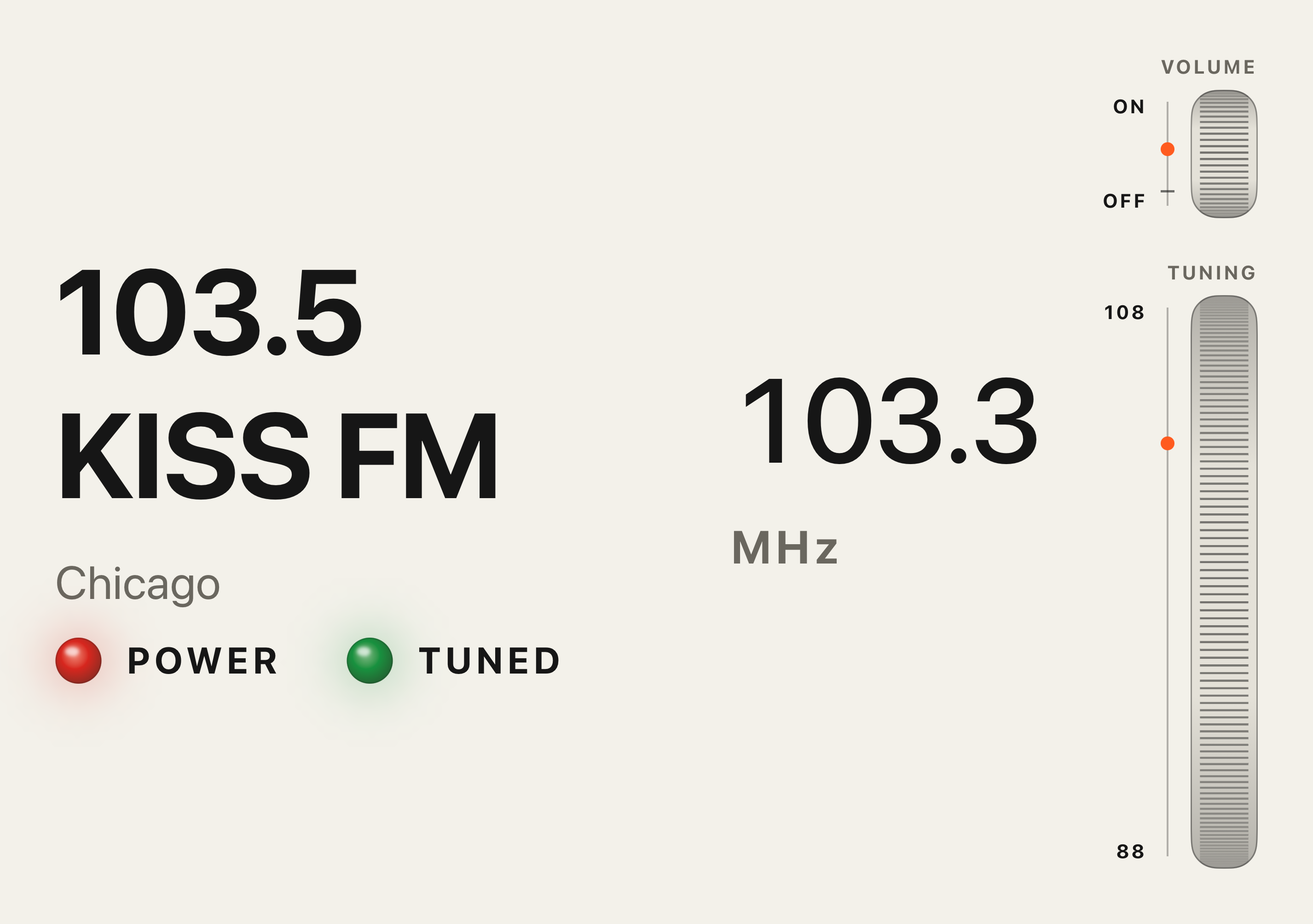
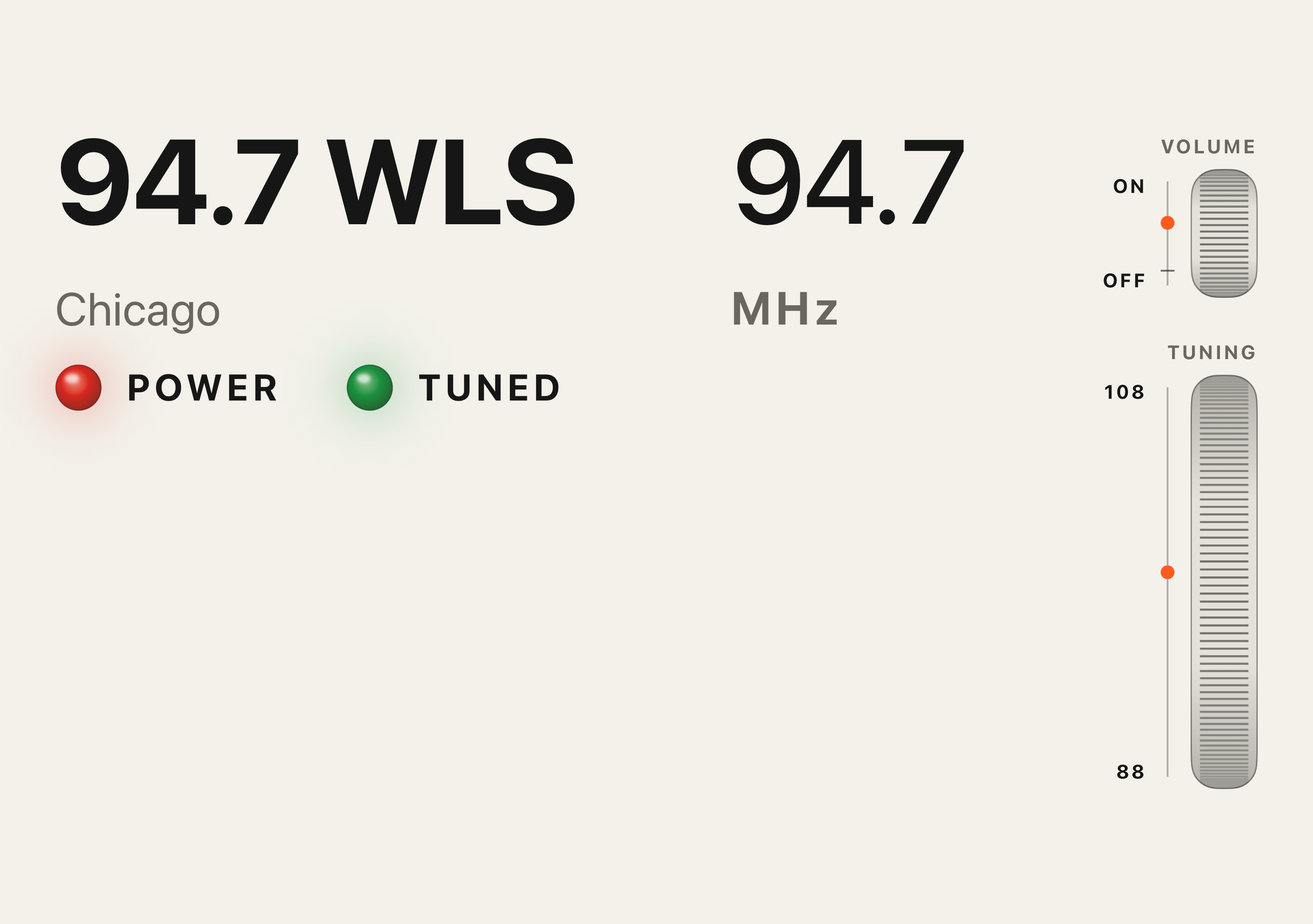
fix: standby shows the locked frequency, book panels share a top line, wheels clear the outer camera, slow release settles onto a shown station

diff --git a/App/Views/StandbyView.swift b/App/Views/StandbyView.swift
@@ -25,31 +25,40 @@ struct StandbyView: View {
             let margin = metrics.margin
             // The wheels' em, as flex works it out from the inner screen's width: the same
             // wheels there, a little smaller on the outer screen.
-            let wheels = SideWheels(model: model, em: Face.em(forWidth: metrics.short))
+            let wheelsEm = Face.em(forWidth: metrics.short)
             Group {
                 if twoPanels {
                     // The panels split the whole screen, so the fold stays on the centre line;
-                    // each keeps to the safe area on its outer edge and clear of the fold.
+                    // each keeps to the safe area on its outer edge and clear of the fold. The
+                    // wheels are centred top to bottom, and the name's and the frequency's cap
+                    // tops sit on the same line as VOLUME's, so one top line runs across the fold.
+                    let wheelsHeight = SideWheels.height(em: wheelsEm, tuning: Self.bookTuningHeight)
+                    let top = max(insets.top + margin, (size.height - wheelsHeight) / 2)
+                    let capLine = top + SideWheels.captionCapInset(em: wheelsEm)
                     HStack(spacing: 0) {
                         VStack(alignment: .leading, spacing: metrics.gap) {
                             name(metrics)
                             subtitleAndLamp(metrics)
                         }
                         .animation(.easeOut(duration: 0.3), value: model.radio.powerOn)
-                        .padding(EdgeInsets(top: insets.top + margin, leading: insets.leading + margin,
+                        .padding(.top, capLine - Self.capInset(nameFont(size: metrics.name)))
+                        .padding(EdgeInsets(top: 0, leading: insets.leading + margin,
                                             bottom: insets.bottom + margin, trailing: Face.foldClearance + margin))
-                        .frame(width: size.width / 2, height: size.height, alignment: .leading)
-                        HStack(spacing: margin) {
+                        .frame(width: size.width / 2, height: size.height, alignment: .topLeading)
+                        HStack(alignment: .top, spacing: margin) {
                             VStack(alignment: .leading, spacing: metrics.gap) {
                                 frequency(metrics)
                                 unit(metrics)
                             }
                             .animation(.easeOut(duration: 0.3), value: model.radio.powerOn)
-                            wheels
+                            .padding(.top, capLine - top
+                                     - Self.capInset(frequencyFont(size: frequencySize(metrics))))
+                            SideWheels(model: model, em: wheelsEm, tuningMaxHeight: Self.bookTuningHeight)
+                                .frame(height: min(wheelsHeight, size.height - top - insets.bottom - margin))
                         }
-                        .padding(EdgeInsets(top: insets.top + margin, leading: Face.foldClearance + margin,
+                        .padding(EdgeInsets(top: top, leading: Face.foldClearance + margin,
                                             bottom: insets.bottom + margin, trailing: insets.trailing + margin))
-                        .frame(width: size.width / 2, height: size.height)
+                        .frame(width: size.width / 2, height: size.height, alignment: .top)
                     }
                 } else {
                     HStack(spacing: margin) {
@@ -61,7 +70,7 @@ struct StandbyView: View {
                             unit(metrics)
                         }
                         .animation(.easeOut(duration: 0.3), value: model.radio.powerOn)
-                        wheels
+                        SideWheels(model: model, em: wheelsEm)
                     }
                     .padding(singlePanelPadding(size: size, insets: insets, margin: margin))
                     .frame(width: size.width, height: size.height)
@@ -71,19 +80,33 @@ struct StandbyView: View {
         .foregroundStyle(Face.ink)
     }
 
+    /// The book face's tuning wheel: a little taller than flex's, not the panel's full height.
+    /// The gearing is per point, so this changes only how much of the band one height covers.
+    private static let bookTuningHeight: CGFloat = 300
+
     /// The outer screen's camera sits in one corner, reaching about 66 pt in from both edges, and
     /// the safe area does not report it. Which corner depends on the way up, which is unreliable,
     /// so the single panel keeps both ends of its long side this far in.
     private static let cameraClearance: CGFloat = 80
+    /// Where the wheels meet an end of the long side they keep further in, so the thumb rolling
+    /// them (wider than the wheel) stays clear of the camera: about 38 pt between lens and wheel.
+    private static let wheelCameraClearance: CGFloat = 104
 
+    /// Landscape: the text keeps `cameraClearance` on the left, the wheels `wheelCameraClearance`
+    /// on the right. Upright: the wheels run along the long side, so both its ends keep
+    /// `wheelCameraClearance`, and the text lines up with them.
     private func singlePanelPadding(size: CGSize, insets: EdgeInsets, margin: CGFloat) -> EdgeInsets {
-        let end = Self.cameraClearance
-        return size.width > size.height
-            ? EdgeInsets(top: insets.top + margin, leading: max(insets.leading + margin, end),
-                         bottom: insets.bottom + margin, trailing: max(insets.trailing + margin, end))
-            : EdgeInsets(top: max(insets.top + margin, end), leading: insets.leading + margin,
-                         bottom: max(insets.bottom + margin, end), trailing: insets.trailing + margin)
+        size.width > size.height
+            ? EdgeInsets(top: insets.top + margin, leading: max(insets.leading + margin, Self.cameraClearance),
+                         bottom: insets.bottom + margin,
+                         trailing: max(insets.trailing + margin, Self.wheelCameraClearance))
+            : EdgeInsets(top: max(insets.top + margin, Self.wheelCameraClearance), leading: insets.leading + margin,
+                         bottom: max(insets.bottom + margin, Self.wheelCameraClearance),
+                         trailing: insets.trailing + margin)
     }
+
+    /// From the top of a one-line text in `font` to its cap top.
+    private static func capInset(_ font: UIFont) -> CGFloat { font.ascender - font.capHeight }
 
     /// Sizes from the screen's short side `s`.
     private struct Metrics {
@@ -121,13 +144,12 @@ struct StandbyView: View {
         }
     }
 
-    /// The frequency under the needle, as on the flex dial (the wheels tune here too). Its size
-    /// is set from the widest reading, so it stays put while tuning across 100 MHz, and fits
-    /// beside the wheels.
+    /// The locked station's own frequency, else the needle's (flex's dial follows the needle). Its
+    /// size is set from the widest reading, so it stays put across 100 MHz and fits beside the
+    /// wheels.
     private func frequency(_ metrics: Metrics) -> some View {
-        let fitted = frequencySlot > 0 ? frequencySlot / Self.frequencyWidthPerPoint : metrics.frequency
-        let size = min(metrics.frequency, fitted)
-        return Text(String(format: "%.1f", model.radio.tuning.frequency))
+        let size = frequencySize(metrics)
+        return Text(String(format: "%.1f", model.radio.tuning.locked?.frequency ?? model.radio.tuning.frequency))
             .font(.system(size: size, weight: .medium))
             .monospacedDigit()
             .tracking(-0.02 * size)
@@ -137,6 +159,16 @@ struct StandbyView: View {
             .opacity(model.radio.powerOn ? 1 : 0.35)
             .frame(maxWidth: .infinity, alignment: .leading)
             .onGeometryChange(for: CGFloat.self) { $0.size.width } action: { frequencySlot = $0 }
+    }
+
+    private func frequencySize(_ metrics: Metrics) -> CGFloat {
+        let fitted = frequencySlot > 0 ? frequencySlot / Self.frequencyWidthPerPoint : metrics.frequency
+        return min(metrics.frequency, fitted)
+    }
+
+    private func nameFont(size: CGFloat) -> UIFont { .systemFont(ofSize: size, weight: .bold) }
+    private func frequencyFont(size: CGFloat) -> UIFont {
+        .monospacedDigitSystemFont(ofSize: size, weight: .medium)
     }
 
     /// The width of the widest reading, "000.0", per point of font size.

diff --git a/App/Views/SideWheels.swift b/App/Views/SideWheels.swift
@@ -1,4 +1,5 @@
 import SwiftUI
+import UIKit
 import RadioCore
 import os
 
@@ -12,6 +13,8 @@ import os
 struct SideWheels: View {
     let model: RadioModel
     let em: CGFloat
+    /// The tallest the tuning wheel may grow; by default it takes all the height left.
+    var tuningMaxHeight: CGFloat = .infinity
 
     /// How much of the band (0...1) one point of roll on the tuning wheel covers, on every face.
     /// The flex face's tuning wheel on the inner screen (233 pt, measured from the `WHEELS` log
@@ -33,7 +36,7 @@ struct SideWheels: View {
             caption("TUNING", size: size)
                 .padding(.top, wheelGap(size: size) - 2 * captionGap - captionHeight(size))
             tuning(size: size)
-                .frame(minHeight: Self.tuningMinHeight, maxHeight: .infinity)
+                .frame(minHeight: Self.tuningMinHeight, maxHeight: max(Self.tuningMinHeight, tuningMaxHeight))
         }
         .fixedSize(horizontal: true, vertical: false)
         .foregroundStyle(Face.ink)
@@ -43,14 +46,34 @@ struct SideWheels: View {
 
     private var wheelWidth: CGFloat { max(46, 1.25 * em) }
     /// One wheel height is the volume's whole travel, 0 to 1.
-    private var volumeHeight: CGFloat { max(92, 2.4 * em) }
+    private var volumeHeight: CGFloat { Self.volumeHeight(em: em) }
     /// Between a wheel's name and the wheel.
-    private var captionGap: CGFloat { 0.2 * em }
-    private func captionHeight(_ size: CGFloat) -> CGFloat { ceil(1.2 * size) }
+    private var captionGap: CGFloat { Self.captionGap(em: em) }
+    private func captionHeight(_ size: CGFloat) -> CGFloat { Self.captionHeight(size) }
+    private func wheelGap(size: CGFloat) -> CGFloat { Self.wheelGap(em: em, size: size) }
+
+    private static func volumeHeight(em: CGFloat) -> CGFloat { max(92, 2.4 * em) }
+    private static func captionGap(em: CGFloat) -> CGFloat { 0.2 * em }
+    private static func captionHeight(_ size: CGFloat) -> CGFloat { ceil(1.2 * size) }
     /// From the bottom of the volume wheel to the top of the tuning wheel: at least 44 pt, so a
     /// thumb on one never lands on the other. The tuning wheel's name sits in this gap.
-    private func wheelGap(size: CGFloat) -> CGFloat {
-        max(48, 1.25 * em, 2 * captionGap + captionHeight(size) + 0.6 * em)
+    private static func wheelGap(em: CGFloat, size: CGFloat) -> CGFloat {
+        max(48, 1.25 * em, 2 * captionGap(em: em) + captionHeight(size) + 0.6 * em)
+    }
+
+    /// The whole assembly's height with a tuning wheel `tuning` tall.
+    static func height(em: CGFloat, tuning: CGFloat) -> CGFloat {
+        let size = Face.printed(em: em)
+        return captionHeight(size) + captionGap(em: em) + volumeHeight(em: em)
+            + wheelGap(em: em, size: size) + tuning
+    }
+
+    /// From the top of the assembly to the cap top of its first word, VOLUME, so a face can line
+    /// other words up with it.
+    static func captionCapInset(em: CGFloat) -> CGFloat {
+        let size = Face.printed(em: em)
+        let font = UIFont.systemFont(ofSize: size, weight: .bold)
+        return (captionHeight(size) - font.lineHeight) / 2 + font.ascender - font.capHeight
     }
 
     // MARK: - Volume
@@ -100,7 +123,7 @@ struct SideWheels: View {
                           if target != model.position {
                               move(to: target)
                           } else {
-                              model.settle(animated: !reduceMotion)  // a slow release eases onto the mark
+                              model.settleAfterRelease(animated: !reduceMotion)  // a slow release eases onto the mark
                           }
                       },
                       onTap: { upperHalf in step(up: upperHalf) },
@@ -109,7 +132,7 @@ struct SideWheels: View {
                 .onGeometryChange(for: CGFloat.self) { $0.size.height.rounded() } action: { height in
                     let line = String(format: "WHEELS tuning %.0f pt, %.3f of the band", height,
                                       Double(height) * Self.tuningBandPerPoint)
-                    log.notice("\(line, privacy: .public)")
+                    log.debug("\(line, privacy: .public)")
                 }
                 .accessibilityLabel("Tuning")
                 .accessibilityValue(tuningValue)

diff --git a/Packages/RadioCore/Tests/RadioCoreTests/RadioTests.swift b/Packages/RadioCore/Tests/RadioCoreTests/RadioTests.swift
@@ -345,3 +345,59 @@ private let pair = StationFile(generated: "test", cities: [
     #expect(Radio(file: .empty).stepTarget(up: true) == nil)
     #expect(Radio(file: .empty).stepTarget(up: false) == nil)
 }
+
+// MARK: - Slow release
+
+/// The dial position `units` dial units above KSEA's mark: outside the 1.5 half zone and inside
+/// the 0.75 fade means a candidate that is not locked.
+private func aboveKSEA(_ radio: Radio, units: Double) -> Double {
+    (radio.scale.marks[0].angle + units - 70) / 80
+}
+
+@Test func releaseTargetIsTheLockedMark() {
+    var radio = Radio(file: file)
+    radio.tune(toPosition: 0.5175)                            // inside KSEA's zone, off the mark
+    #expect(radio.tuning.locked?.callSign == "KSEA")
+    #expect(radio.releaseTarget == radio.scale.marks[0].position)
+    radio.togglePower()
+    #expect(radio.releaseTarget == radio.scale.marks[0].position)
+}
+
+@Test func releaseTargetEasesOntoAShownCandidate() {
+    var radio = Radio(file: file)
+    radio.togglePower()
+    radio.tune(toPosition: 0.625)                             // static, so nothing is held
+    radio.tune(toPosition: aboveKSEA(radio, units: 1.9))      // in the fade, not locked
+    #expect(radio.tuning.locked == nil)
+    #expect(radio.tuning.candidate?.callSign == "KSEA")
+    #expect(radio.display(playback: .playing).title == "KSEA Name")
+    #expect(radio.releaseTarget == radio.scale.marks[0].position)
+    #expect(radio.settleTarget == nil)                        // steps and launch still need a lock
+}
+
+@Test func releaseTargetBeyondTheFadeIsNil() {
+    var radio = Radio(file: file)
+    radio.togglePower()
+    radio.tune(toPosition: aboveKSEA(radio, units: 2.5))
+    #expect(radio.tuning.candidate == nil)
+    #expect(radio.releaseTarget == nil)
+    #expect(Radio(file: .empty).releaseTarget == nil)
+}
+
+@Test func releaseTargetForADeadCandidateIsNil() {
+    var radio = Radio(file: file)
+    radio.togglePower()
+    radio.markDead("KSEA")
+    radio.tune(toPosition: 0.625)
+    radio.tune(toPosition: aboveKSEA(radio, units: 1.9))
+    #expect(radio.tuning.candidate?.callSign == "KSEA")
+    #expect(radio.releaseTarget == nil)
+}
+
+@Test func releaseTargetOffIgnoresTheCandidate() {
+    var radio = Radio(file: file)                             // off: no name shows
+    radio.tune(toPosition: 0.625)
+    radio.tune(toPosition: aboveKSEA(radio, units: 1.9))
+    #expect(radio.tuning.candidate?.callSign == "KSEA")
+    #expect(radio.releaseTarget == nil)
+}

diff --git a/App/RadioModel.swift b/App/RadioModel.swift
@@ -119,11 +119,16 @@ import UIKit
         updatePose()
     }
 
-    /// After a slow release or a band change: eases the needle onto the locked station's mark
-    /// over 0.2 s (at once when `animated` is false), without ticking. With nothing locked the
-    /// needle stays where it is.
-    func settle(animated: Bool) {
-        guard let target = radio.settleTarget, target != radio.position else { return }
+    /// After a band change: eases the needle onto the locked station's mark over 0.2 s (at once
+    /// when `animated` is false), without ticking. With nothing locked the needle stays where it is.
+    func settle(animated: Bool) { ease(to: radio.settleTarget, animated: animated) }
+
+    /// After a slow release on the tuning wheel: the same quiet ease, onto the locked station's
+    /// mark or onto the station whose name shows in its fade zone (`Radio.releaseTarget`).
+    func settleAfterRelease(animated: Bool) { ease(to: radio.releaseTarget, animated: animated) }
+
+    private func ease(to target: Double?, animated: Bool) {
+        guard let target, target != radio.position else { return }
         if animated {
             glide(toPosition: target, duration: 0.2, quiet: true)
         } else {

diff --git a/Packages/RadioCore/Sources/RadioCore/Radio.swift b/Packages/RadioCore/Sources/RadioCore/Radio.swift
@@ -106,6 +106,16 @@ public struct Radio: Sendable {
         return scale.marks.first { $0.station.callSign == locked.callSign }?.position
     }
 
+    /// Where a slow release on the tuning wheel eases the needle to: the locked station's mark;
+    /// else, while the radio is on and a live station's name shows in its fade zone (the
+    /// candidate, not yet locked), that station's mark; else nil, and the needle stays put.
+    /// Taps, VoiceOver steps and launch still count from `settleTarget` (a lock only).
+    public var releaseTarget: Double? {
+        if let target = settleTarget { return target }
+        guard powerOn, let candidate = tuning.candidate, !dead.contains(candidate.callSign) else { return nil }
+        return scale.marks.first { $0.station.callSign == candidate.callSign }?.position
+    }
+
     /// Tunes straight onto the locked station's mark, so the needle rests there and the next touch
     /// has an even hold on both sides. Does nothing when no station is locked. Used at launch; the
     /// app eases onto `settleTarget` itself after a release or a band change.

diff --git a/README.md b/README.md
@@ -57,7 +57,7 @@ The needle follows the tuning wheel on every move, near a station too, and the f
 The lower half is the front of a pocket radio: a speaker grille, a band switch under it, and two ridged wheels at the right edge. Each wheel has its name printed over it and a short printed scale beside it with a dot that shows where it is turned. A wheel turns only once the finger has moved 6 pt; a touch that lifts before that is a tap.
 
 1. Volume (the small wheel, top). Roll it up past the click and the radio comes on; keep rolling for louder; roll it down past the click and it goes off. Below 0.15 of its travel it is off. A tap on it switches the radio on (at the last volume used) or off. One wheel height of rolling covers the whole range.
-2. Tuning (the tall wheel, bottom). Roll it up to go up the band, down to go down. Every 100 pt of rolling moves about a tenth of the band (the whole band is 932 pt of rolling), on every face; here that is a quarter of the band per wheel height. Near a station it settles on it, the name and its city of licence appear, and the station plays. Between stations the screen says "Static". A slow release on a station eases the needle onto its mark; off a station it stays where you let go. A quick flick carries on and settles on the nearest station. A tap on the upper half of the wheel goes to the next station up, on the lower half to the next one down, counting from the locked station when there is one. On this wheel a tap must lift within 4 pt of where it began; a small nudge between that and 6 pt does nothing.
+2. Tuning (the tall wheel, bottom). Roll it up to go up the band, down to go down. Every 100 pt of rolling moves about a tenth of the band (the whole band is 932 pt of rolling), on every face; here that is a quarter of the band per wheel height. Near a station it settles on it, the name and its city of licence appear, and the station plays. Between stations the screen says "Static". A slow release on a station eases the needle onto its mark, and so does a slow release just short of a station where its name already shows (with the radio on, and not a station marked "No signal"); anywhere else it stays where you let go. A quick flick carries on and settles on the nearest station. A tap on the upper half of the wheel goes to the next station up, on the lower half to the next one down, counting from the locked station when there is one. On this wheel a tap must lift within 4 pt of where it began; a small nudge between that and 6 pt does nothing.
 3. Band. Tap one of the four positions (SEA, NYC, CHI, LA) to slide the switch there. The dial redraws with that city's stations and the old city goes quiet at once. The needle stays where it was, unless one of the new city's stations is under it: then it eases onto that station's mark.
 
 Each control ticks or clicks like a mechanical one, with a small sound and a matching tap you can feel, whether the radio is on or off:
@@ -74,9 +74,9 @@ With VoiceOver: "Volume" is adjustable in steps of a tenth (from off, one step u
 
 ### Book, tent and shut: standby
 
-The same face on all three. It is made to be read from across a room, with the station name and the frequency as the two biggest things on it. Under the name are the same POWER and TUNED lamps as in flex; switched off, the name and the line under it are empty. The frequency is the one under the needle, as on the flex dial, and keeps one size while you tune (it is sized for five figures, so it does not jump at 100 MHz).
+The same face on all three. It is made to be read from across a room, with the station name and the frequency as the two biggest things on it. Under the name are the same POWER and TUNED lamps as in flex; switched off, the name and the line under it are empty. The frequency is the locked station's own; between stations it is the one under the needle. It keeps one size while you tune (it is sized for five figures, so it does not jump at 100 MHz).
 
-At the right edge are the same two wheels as in flex, with the same names, printed scales, ticks, clicks and VoiceOver actions: volume above, tuning below. Volume is also power: roll it up past the click or tap it to switch on, roll it down past the click or tap it again to switch off. Tuning works as in flex, including a tap on its upper or lower half to step a station, and a thumb movement tunes the same amount as in flex; on a taller wheel one wheel height just covers more of the band. In book the wheels sit at the right edge of the right panel, with the frequency to their left. On the outer screen they stay 80 pt in from both short edges, like everything else there, so nothing sits under the camera in any corner. You cannot change city here. Put the phone in flex to do that.
+At the right edge are the same two wheels as in flex, with the same names, printed scales, ticks, clicks and VoiceOver actions: volume above, tuning below. Volume is also power: roll it up past the click or tap it to switch on, roll it down past the click or tap it again to switch off. Tuning works as in flex, including a tap on its upper or lower half to step a station, and a thumb movement tunes the same amount as in flex; on a taller wheel one wheel height just covers more of the band. In book the wheels sit at the right edge of the right panel, with the frequency to their left; the station name, the frequency and the word VOLUME start on one line across the fold, and the tuning wheel is 300 pt tall. The outer screen's camera sits in one corner, and which corner depends on the way up, so there the wheels keep a thumb's width clear of it: they stay about 104 pt in from each end of the long side, where the text keeps 80 pt. You cannot change city here. Put the phone in flex to do that.
 
 Closing the phone keeps the radio playing and shows the standby face on the outer screen, whichever way up it is. If the hinge is nearly shut but the inner screen is still lit, the standby face shows on the half of the inner screen above the fold (or the panel left of it on its side).
 
@@ -122,6 +122,7 @@ xcrun simctl spawn <id> log show --last 3m --style compact --predicate 'subsyste
 - `LOCK <call> <position>` or `STATIC <position>` only when the locked station changes.
 - `CONNECT`, `PLAYING`, `RETRY`, `FAILED` and `STOP` from the player.
 - `FEEL click on|off|band|lock <call>` and `FEEL stop tuning|volume` for each click and stop; `FEEL tick tuning|volume` for each tick, at the info level (add `--info` to see them).
+- `WHEELS tuning <height> pt, <fraction> of the band` when the tuning wheel's height changes, at the debug level (add `--debug` to see it).
 
 ## The stations
 
@@ -148,11 +149,11 @@ At the end of `build`, the hosts of the plain-`http://` streams are compared wit
 ## Tests
 
 ```
-swift test --package-path Packages/RadioCore          # 110 tests
+swift test --package-path Packages/RadioCore          # 115 tests
 python3 -m unittest tools/test_build_stations.py      # 19 tests
 ```
 
-On 2026-11-22, on commit `8987edd`, the Swift suite passed 74 of 74 and the Python suite 19 of 19. After the review fixes the same day, the Swift suite passed 81 of 81 and the Python suite 19 of 19. With the pocket radio face, the Swift suite passed 85 of 85 and the Python suite 19 of 19. With the smooth needle, ticks and lamps, the Swift suite passed 95 of 95 and the Python suite 19 of 19; after the review fixes that followed, 110 of 110 and 19 of 19. With the side wheels on the standby faces, 110 of 110 and 19 of 19 (no new tests: the change is in the app's views, and the gearing constant carries no rule for RadioCore). One of the Python tests checks that the plain-http hosts in `Stations.json` and the ones `App/Info.plist` allows are the same set.
+On 2026-11-22, on commit `8987edd`, the Swift suite passed 74 of 74 and the Python suite 19 of 19. After the review fixes the same day, the Swift suite passed 81 of 81 and the Python suite 19 of 19. With the pocket radio face, the Swift suite passed 85 of 85 and the Python suite 19 of 19. With the smooth needle, ticks and lamps, the Swift suite passed 95 of 95 and the Python suite 19 of 19; after the review fixes that followed, 110 of 110 and 19 of 19. With the side wheels on the standby faces, 110 of 110 and 19 of 19 (no new tests: the change is in the app's views, and the gearing constant carries no rule for RadioCore); after the review fixes, with five tests for where a slow release eases to, 115 of 115 and 19 of 19. One of the Python tests checks that the plain-http hosts in `Stations.json` and the ones `App/Info.plist` allows are the same set.
 
 ## Side wheels on the standby faces (2026-11-22)
 
@@ -168,6 +169,16 @@ Checked on the iPhone Duo simulator (iOS 27.1), muted. Every touch was scripted.
 - **Tent** (`46-tent-wheels.png`, 678x466): after switching on in shut and bending to 60 degrees, the log had `POSE tent`, `POSE flex` and `POSE tent` within 1.4 s (the known flash) and no `STOP`. This time the camera dot was bottom right, about 15 pt clear of the tuning wheel. The first roll down ended between stations (`STATIC 0.692`), and 6 s later the player logged `STOP`, which is what it does after a few seconds on static, not the pose. A longer roll logged `LOCK WFMT 0.649`, `CONNECT WFMT` and `PLAYING WFMT`. Three taps on the lower half stepped down through WCHI-FM, WLS-FM and WCPY. A tap on the volume wheel logged `FEEL click off` and `STOP`.
 - **The other outer size** (`48-tent-wheels-upright.png`, 466x678): it came up on the third turn on the outer screen. The camera dot was top right; the VOLUME name starts 82 pt from the top, below it. A tap on the tuning wheel's upper half logged `LOCK WFMT 0.621` and a tap on the volume wheel `STOP`.
 - **Same gearing**: from WCPY (92.7, needle on the mark), the same scripted 100 pt roll up, held, read 95.3 during the hold in flex and in tent, and logged the same lines in both (`STATIC 0.501`, `LOCK WLS-FM 0.517`, `LOCK WCHI-FM 0.565`). The dial is not even in MHz, so the same roll elsewhere on the band moves the readout by a different number of MHz, the same on every face.
+
+### Review fixes to that pass (2026-11-22)
+
+A review found that the standby readout had been changed to follow the needle, that the book face's two panels no longer lined up, that on the 678x466 outer screen the camera sat about 15 pt beside a wheel end where a rolling thumb would cover it, and that a slow release just short of a station left the needle beside it. Fixed and checked on the iPhone Duo simulator (iOS 27.1), muted:
+
+- **Readout**: the standby face again shows the locked station's own frequency (the flex dial still follows the needle). In book, at rest on WLS-FM, it read 94.7 (`45-book-wheels.png`).
+- **Book**: the name's, the frequency's and VOLUME's cap tops now share one line, measured at 100.0, 100.3 and 101.0 pt in `45-book-wheels.png`; the wheels are centred top to bottom (tuning wheel 300 pt, foot at about 568 pt) and the lamps follow the name.
+- **Outer screen**: in shut (678x466, camera bottom right) the tuning wheel's rim ended at 573.7 pt and the dot began at 612 pt, 38 pt apart (`47-closed-wheels.png`). In tent the camera came up top left, beside the name, 14 pt clear as before (`46-tent-wheels.png`); a roll there logged `LOCK WCHI-FM 0.567`, `CONNECT WCHI-FM`, `PLAYING WCHI-FM` and no `STOP`. Upright (466x678, `48-tent-wheels-upright.png`) the dot ended at 66 pt and the volume wheel began at 125 pt, 59 pt below it; the tuning wheel ended 104 pt from the bottom. A tap on the volume wheel there logged `FEEL click off`, `STOP`.
+- **Slow release short of a station**: in flex, from WCPY's mark a scripted 37 pt roll up, held 4 s, then lifted. During the hold the log had `STATIC 0.495` and `CONNECT WLS-FM` and no `LOCK`; a capture then showed "94.7 WLS", "Chicago", 93.9 and the needle left of the mark. After the lift: `FEEL click lock WLS-FM` and `LOCK WLS-FM 0.511`, and the needle rested on the mark at 94.7.
+- **Flex**: a new capture of the same WCPY face was pixel for pixel the same as `40-pocket-flex.png` from the first pass, so that file was kept.
 
 ## Wheel touch fix (2026-11-22)
 
@@ -307,7 +318,7 @@ If a rebuild of the station list adds a station on a new plain-`http://` host, a
 ## What has not been verified
 
 - How the wheels feel under a thumb. Every roll in the pocket radio pass was scripted on the simulator. Nobody has rolled them by hand.
-- The wheels on the standby face by hand. On the outer screen they end about 81 pt in from the right edge in 678x466 and 29 pt in 466x678; in book about 43 pt. Whether a thumb finds them easily in a tent, and whether a hand holding the phone in book rolls them by mistake, is not known.
+- The wheels on the standby face by hand. On the outer screen they end about 104 pt in from the right edge in 678x466 and 29 pt in 466x678 (where they stay 104 pt from the top and bottom); in book about 43 pt. Whether a thumb finds them easily in a tent, and whether a hand holding the phone in book rolls them by mistake, is not known.
 - Whether the right edge fights the system's edge gestures on a real phone. The wheels end about 43 pt in from the glass edge; on the simulator no roll was taken by the system, but the simulator's touches are synthetic.
 - How it sounds. Every run was muted except a short unmuted launch at the end; nobody listened.
 - A real phone. Anything on a real iPhone Duo, including how it chooses its lit screen.

diff --git a/docs/2026-11-22-pocket-radio-design.md b/docs/2026-11-22-pocket-radio-design.md
@@ -18,6 +18,7 @@ Amends `docs/2026-11-22-hinge-radio-poses-design.md`. Where they disagree this w
 3. **Power is on the side too.** **(my call on the form)** It is the classic volume wheel that clicks on: roll it up past a click and the radio is on; keep rolling and it gets louder; roll it down past the click and it is off. A tap on it also switches on or off.
 4. **Closed keeps playing and shows the standby face**, the same as tent. Closed and off shows that face in its "Off" state. The "Closed" card is gone.
 5. Book, tent and flat are unchanged, except that the standby face's power button is replaced by a tappable on/off switch drawn in the same printed style **(my call)**.
+   Later the same day (task 4) the owner asked for the side knobs in the other poses too: the standby face's on/off switch was replaced by the same side wheels as the flex plate, volume (also power) above tuning, on book, tent and shut. Flat keeps its card.
 
 ## Non-goals
 
